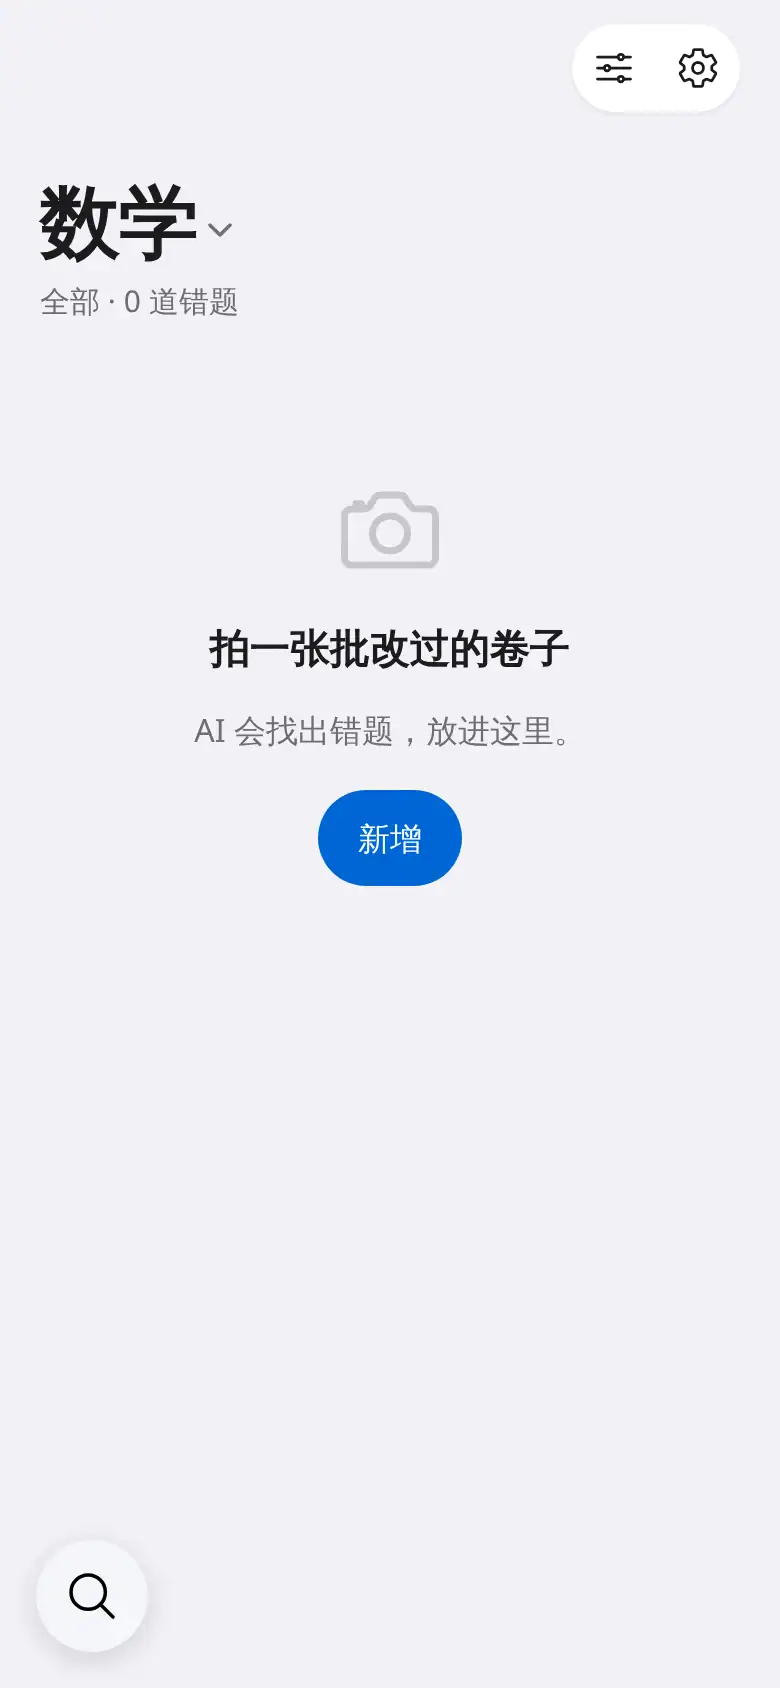
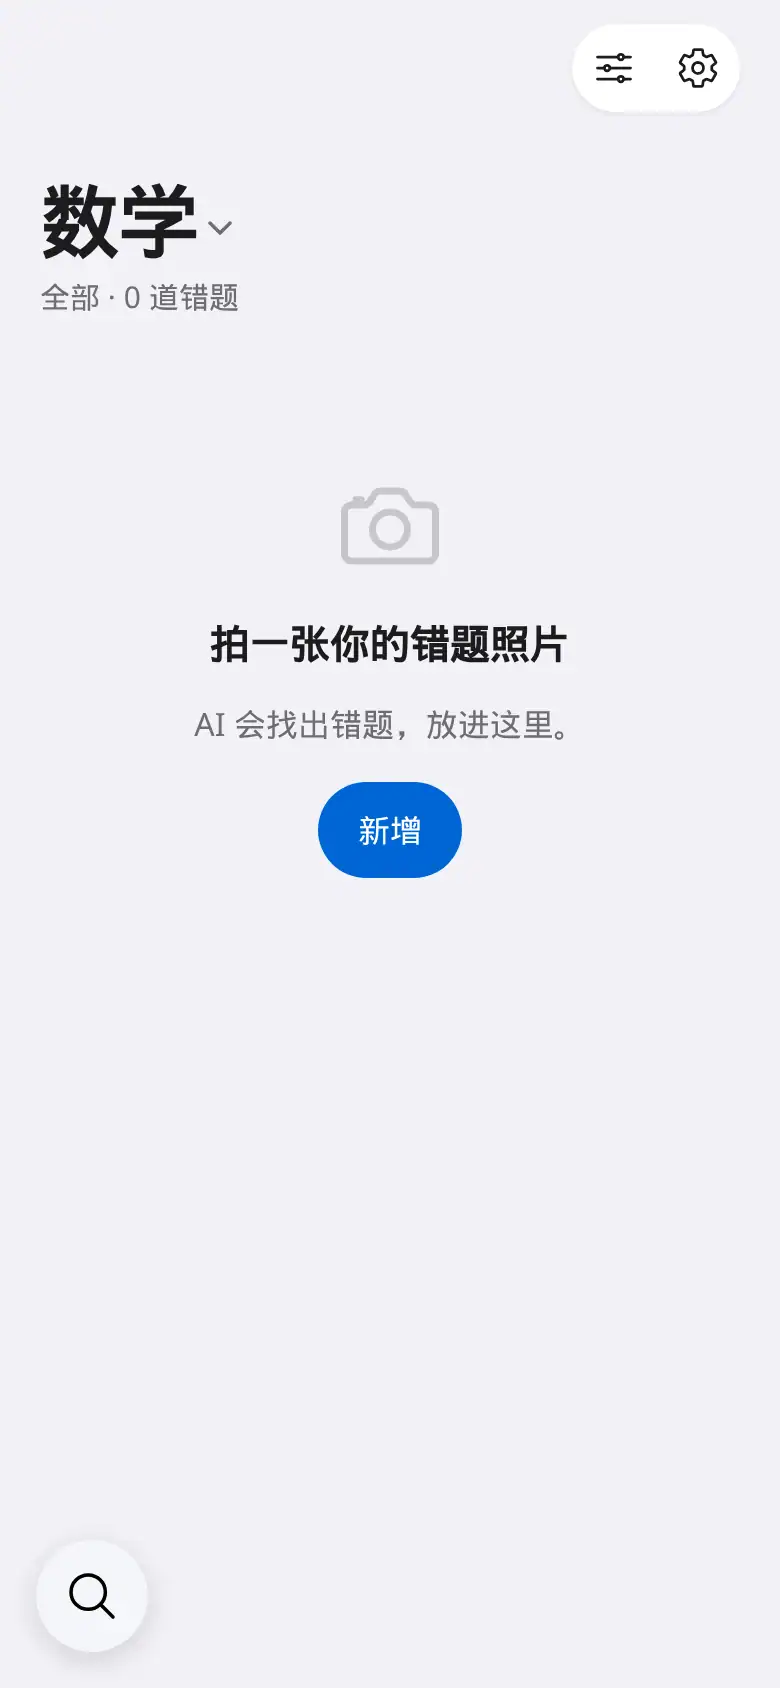
copy(notebook): update the empty notebook headline (#139)
The empty notebook asked students to photograph a graded exam paper.
That line is too narrow. Use the approved headline and keep the subtitle.

Changed region(s): [[0.2462, 0.3697, 0.7385, 0.5237], [0.0308, 0.0924, 0.3077, 0.1848], [0.4615, 0.2773, 0.5538, 0.3389]]

diff --git a/client/src/pages/HomePage.tsx b/client/src/pages/HomePage.tsx
@@ -146,7 +146,7 @@ export function HomePage(): ReactNode {
       </div> : null}
       {data && !items.length && !loading ? <div className="empty" data-testid="empty-notebook">
         <IonIcon icon={cameraOutline} />
-        <b>{data.total ? '没有符合筛选的题' : '拍一张批改过的卷子'}</b>
+        <b>{data.total ? '没有符合筛选的题' : '拍一张你的错题照片'}</b>
         <p>{data.total ? '换个章节或状态试试。' : 'AI 会找出错题，放进这里。'}</p>
         {data.total ? <IonButton fill="clear" onClick={() => patch({ chapter: '', tag: '', q: '' })}>清除筛选</IonButton> : capture.pages.length ? null : <div className="empty-actions">
           <CaptureEntry className="pick-button pick-solid" testId="capture-add">新增</CaptureEntry>

diff --git a/.claude/skills/verify-sel/features/notebook.md b/.claude/skills/verify-sel/features/notebook.md
@@ -41,7 +41,7 @@ Preconditions:
 - **Grid.** `sel-verify drive click --testid notebook-filters`, then `sel-verify drive click --text "网格" --exact`. Cards replace the list. The same questions remain. Shot `--feature notebook --name grid --entry menu`.
 - **List.** From the same menu, `sel-verify drive click --text "列表" --exact`. The rows return.
 - **Search.** `sel-verify drive click --testid corner-search`. Fill `--role searchbox` with a string that is not in any question, such as `zzzz-no-match`. Wait for the text `没有符合筛选的题`. Shot `--feature notebook --name search-empty`. `sel-verify drive click --text "取消" --exact` or the `清除筛选` button restores the list. The search box debounces. Wait for the row, not a fixed delay.
-- **Subject.** `sel-verify drive click --testid subject-switch`, then the button for another subject, such as `物理`. A subject with no questions shows the first-run empty copy `拍一张批改过的卷子`, not the filter-empty copy. Switch back to `数学` and the saved question returns. Shot `--feature notebook --name subject`.
+- **Subject.** `sel-verify drive click --testid subject-switch`, then the button for another subject, such as `物理`. A subject with no questions shows the first-run empty copy `拍一张你的错题照片`, not the filter-empty copy. Switch back to `数学` and the saved question returns. Shot `--feature notebook --name subject`.
 - **Chapter.** `sel-verify drive click --testid notebook-filters`, then `sel-verify drive click --text "章节" --exact`. The sheet lists `全部章节` plus chapters that appear on questions in the current subject and stage. It does not list the whole textbook. Pick one, confirm the list, then pick `全部章节` to clear it.
 - **Tag.** `sel-verify drive click --testid tag-filter --optional --feature notebook --entry tag-filter`. When the subject has no knowledge tags the row is disabled and the command records a skip. That skip is the proof for an empty tag list, not a failed filter.
 - **Stage filter.** `--testid stage-filter` is absent while the subject has questions in only one stage. `sel-verify drive skip --feature notebook --entry stage-filter --blocker "Only one stage is stored for this subject, so the menu does not show 学段."` Do not treat that as a failure.
@@ -58,5 +58,5 @@ Preconditions:
 - `选择` is disabled when there are no rows.
 - A disabled `知识点` row does not close the filter menu. Choose another row, such as `列表`, to dismiss it. Escape does not.
 - Swipe-to-remove is list-only. Grid uses select mode or the detail screen.
-- `没有符合筛选的题` means the current subject and stage still have questions (`total` > 0) but search, chapter, or tag hid them. `拍一张批改过的卷子` means this subject and stage have none. Switching subject to an empty subject uses the second sentence.
+- `没有符合筛选的题` means the current subject and stage still have questions (`total` > 0) but search, chapter, or tag hid them. `拍一张你的错题照片` means this subject and stage have none. Switching subject to an empty subject uses the second sentence.
 - `sel-verify drive swipe` drags the row. If the option stays hidden, it opens `ion-item-sliding` the way `tests/e2e/intakeDelete.spec.ts` does, and the log says which one happened.
